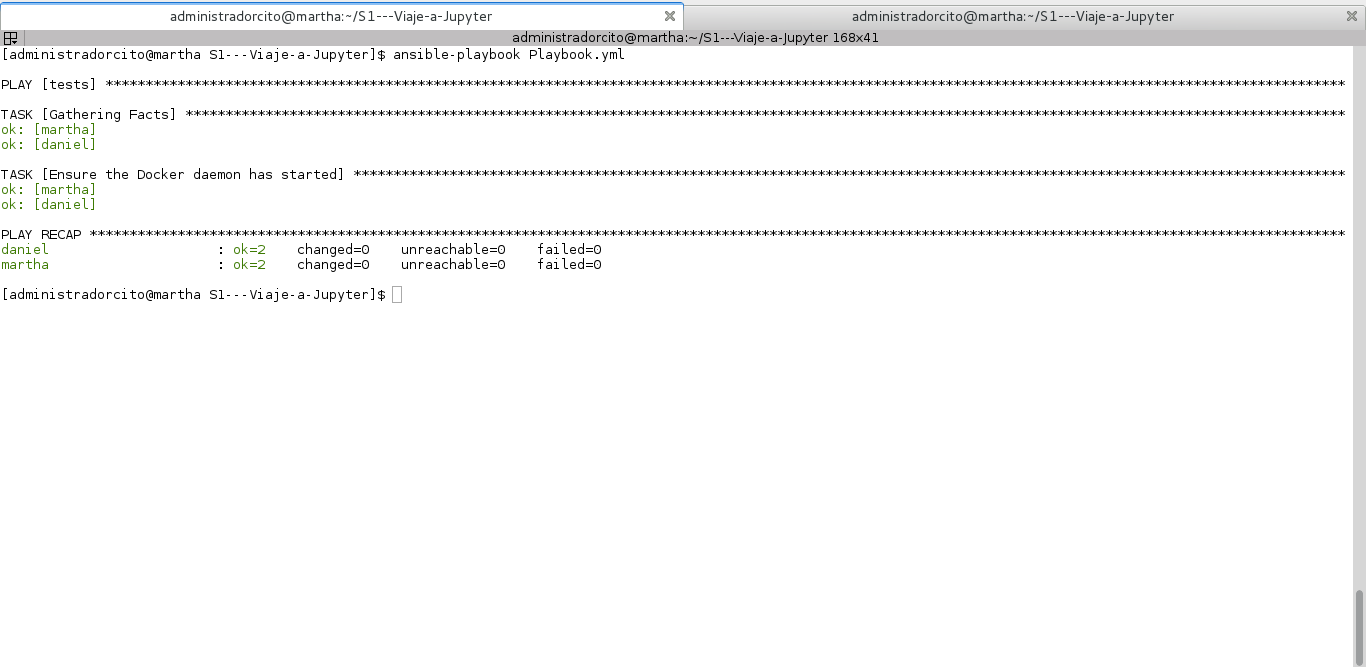
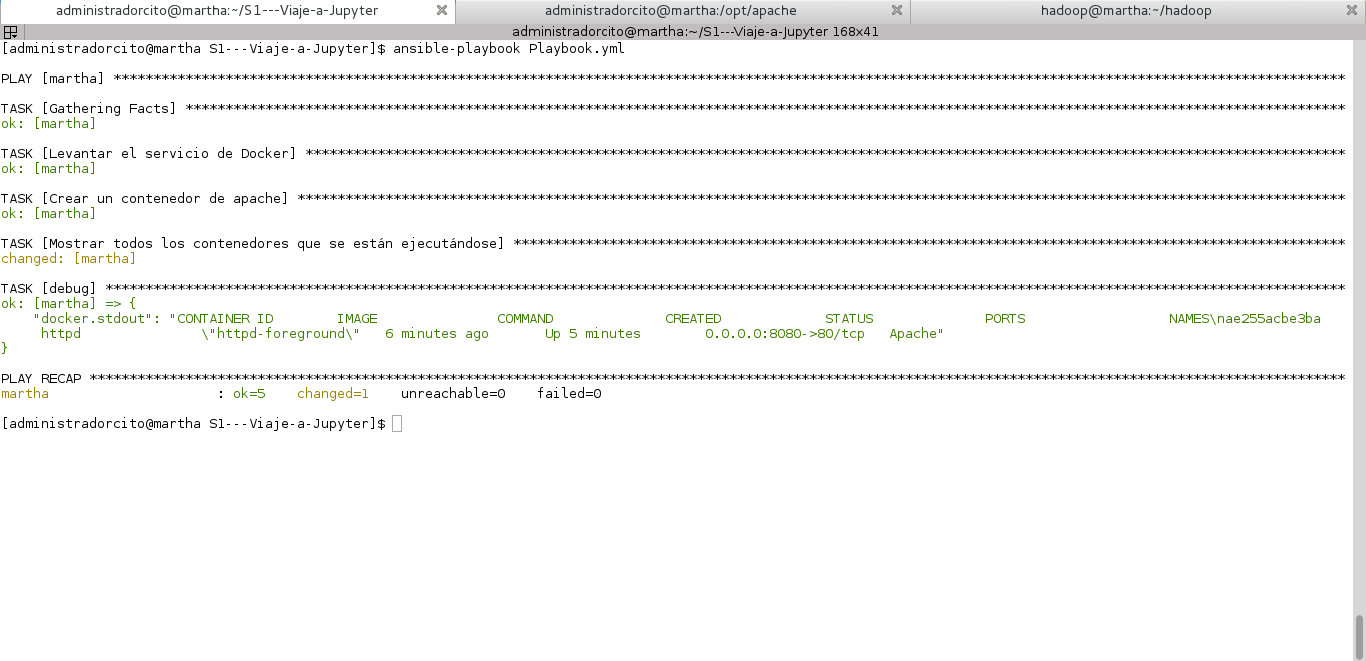
Correcciones de PlayBook

diff --git a/README.md b/README.md
@@ -32,12 +32,21 @@ $ ansible -m ping all
 ## 5.- Ahora haremos un ejemplo de un Playbook (El archivo que generemos debe ir con la extención .yml)
 ```YAML
 ---
-- hosts: [tests] # AQUÍ ESPECIFICAMOS AL HOST O GRUPO DE HOST 
+- hosts: martha # AQUÍ ESPECIFICAMOS AL HOST O GRUPO DE HOST 
   remote_user: root # USUARIO QUE OCUPAMOS PARA EJECUTAR LAS TAREA
   tasks:
-    - name: Ensure the Docker daemon has started # NOMBRE DE LATAREA
-      service: name=docker state=started #  SERVICIO QUE QUEREMOS LEVANTAR
-      become: yes 
+   - name: Levantar el servicio de Docker 
+     service: name=docker state=started # LEVANTAMOS EL DEMONIO DEDOCKER
+   - name: Crear un contenedor de apache 
+     docker_container: #CREAMOS  UN CONTENEDOR
+        name: Apache #NOMBRE DEL CONTENEDOR
+        image: httpd #IMAGEN DE LA CUAL APARTIR VAMOS A CREAR EL CONTENEDOR
+        volumes: /opt/apache:/var/www/html # VOLUMEN  QUE ESTAMOS MONTANDO DEL HOST AL CONTENEDOR
+        ports: 8080:80 # PUERTO DONDE ESTAMOS PUBLICANDO EL SERVICIO
+   - name: Mostrar todos los contenedores que se están ejecutándose
+     command: docker ps 
+     register: docker
+   - debug: var=docker.stdout
 ```
 ## 6.- Ahora ejecutamos nuestro Playbook
 ```
